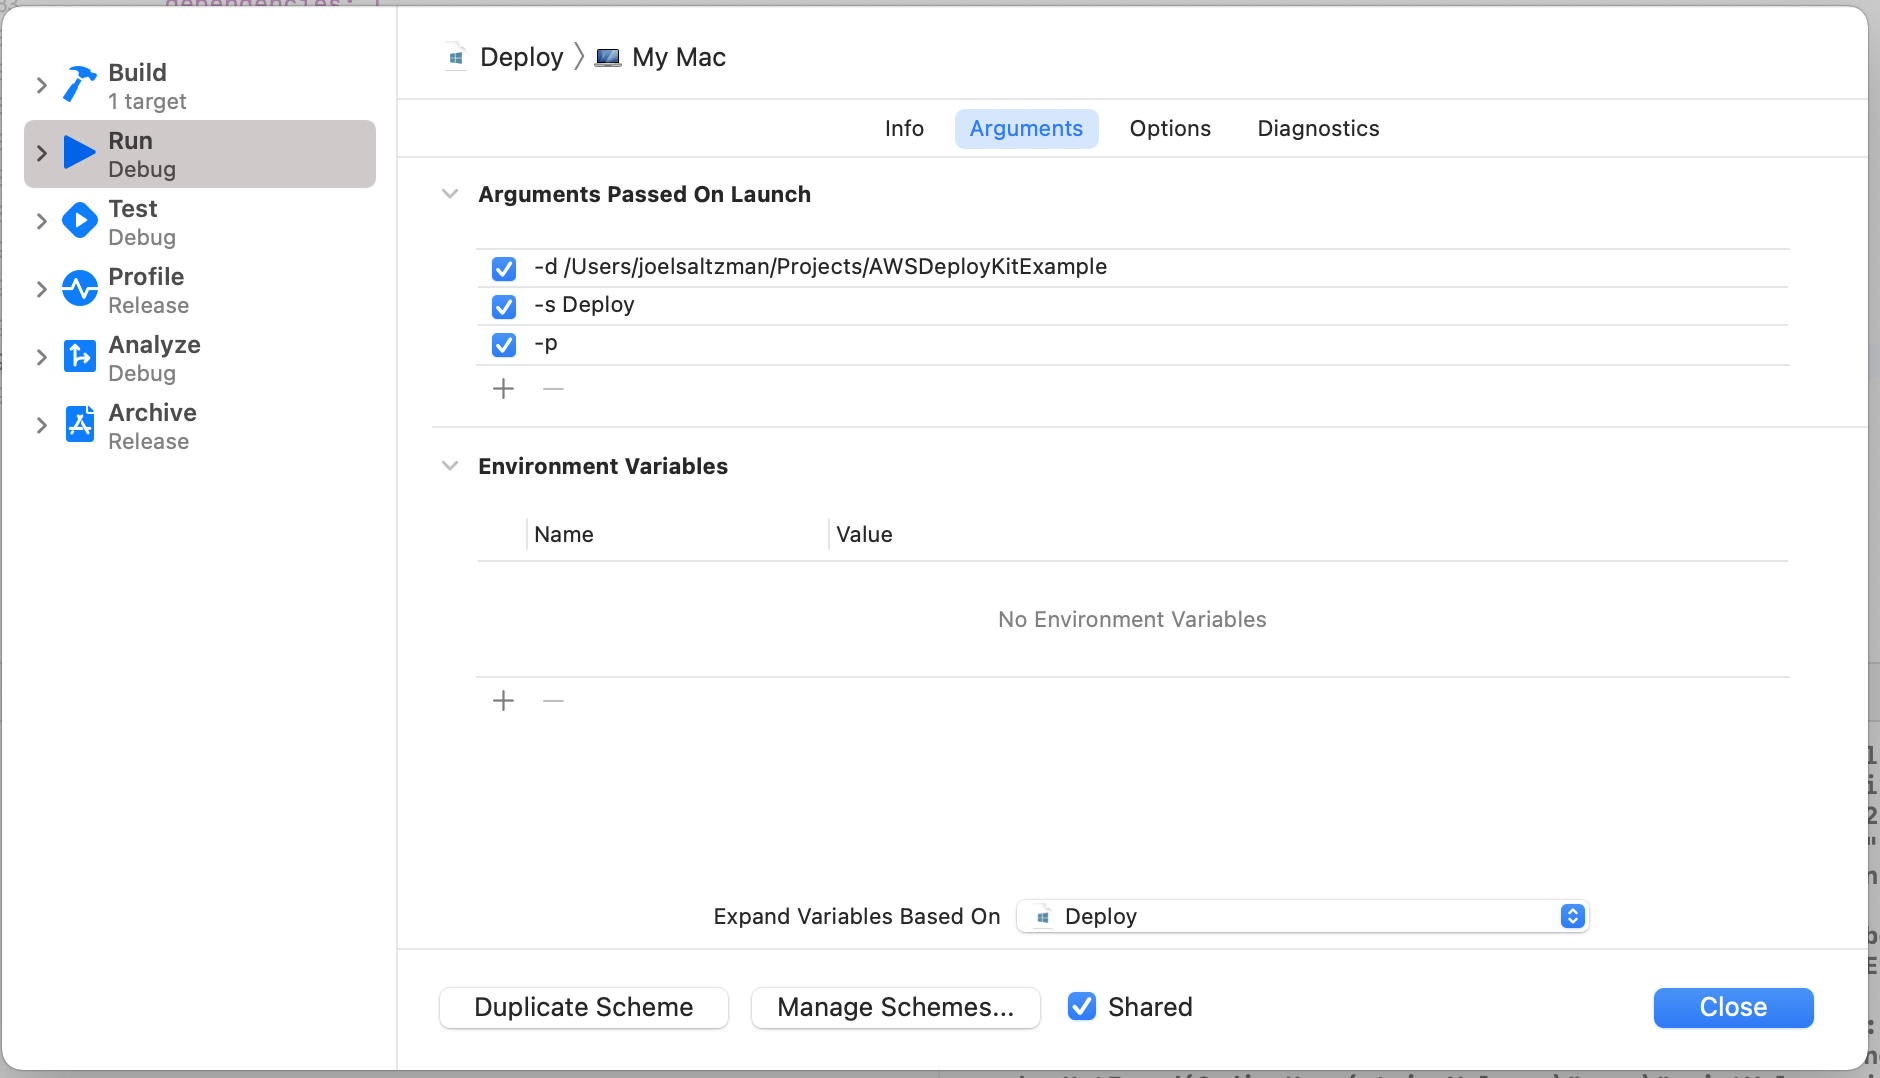
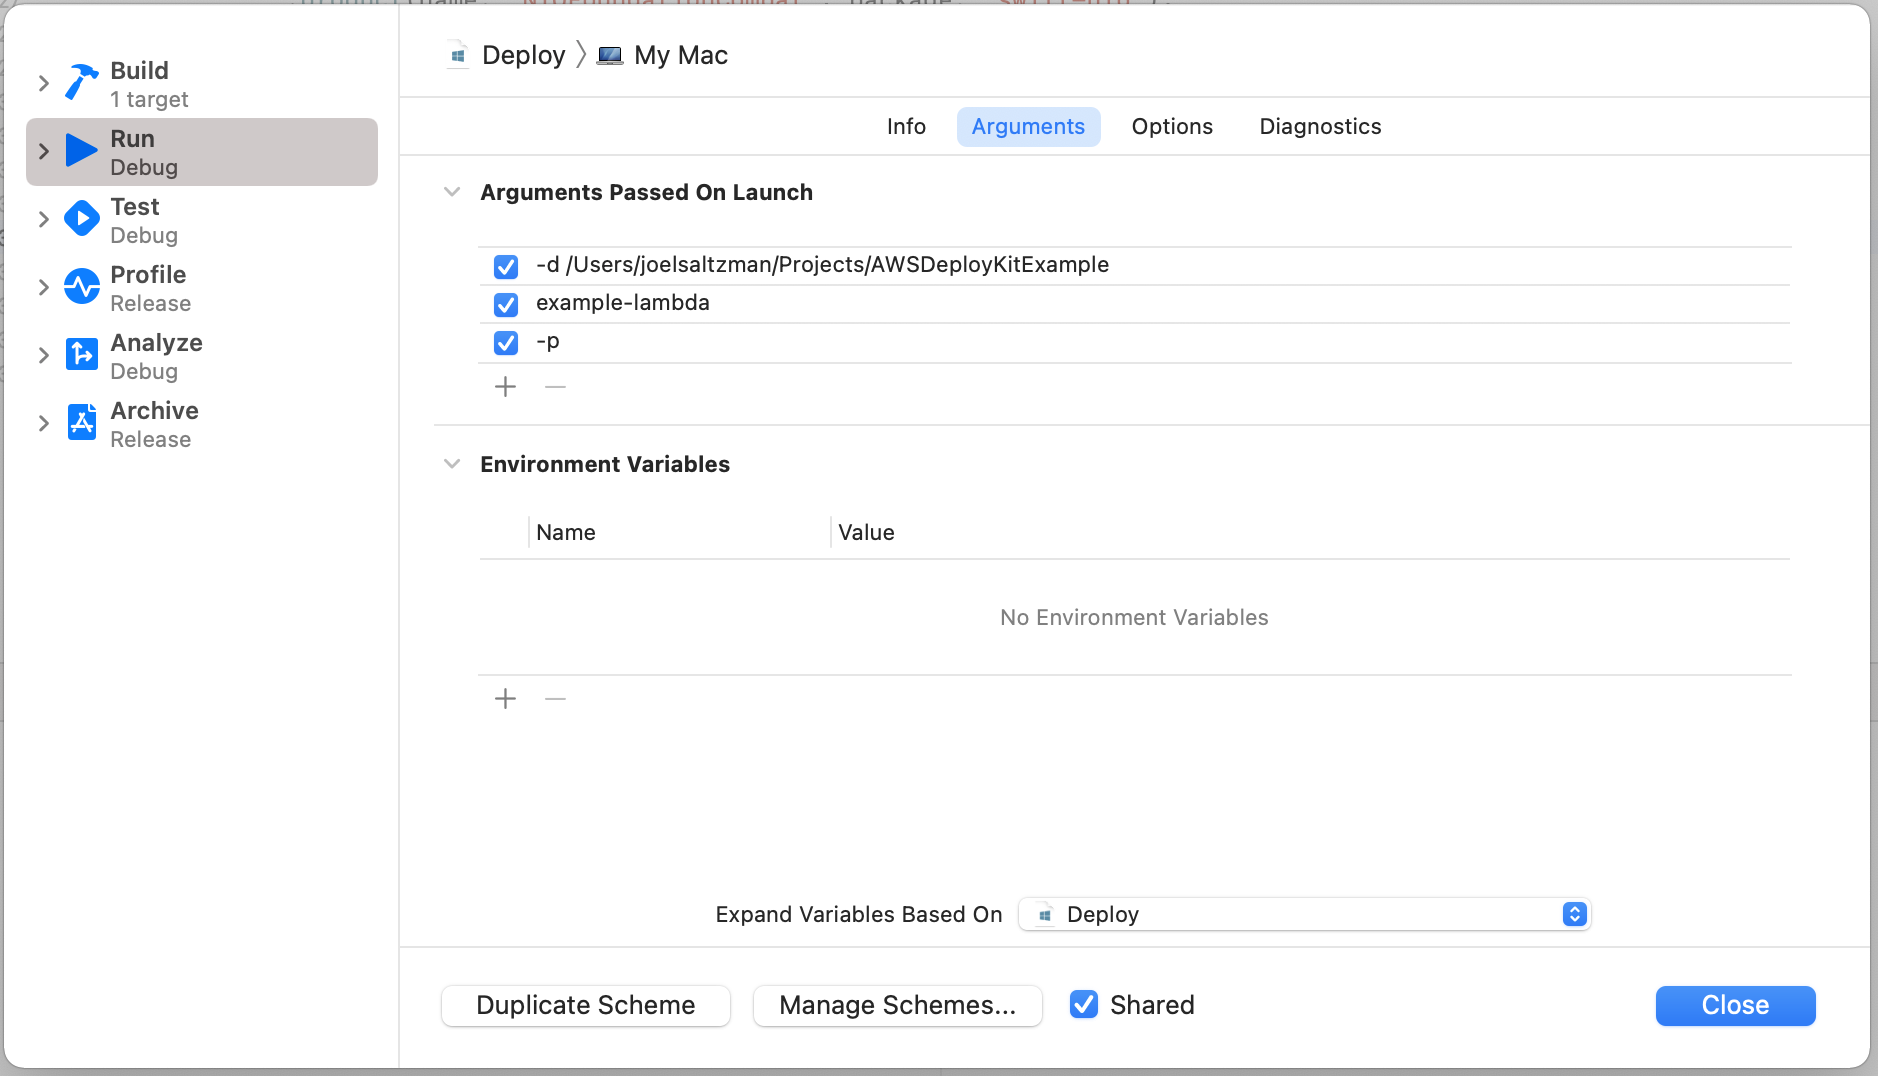
Working on readme

diff --git a/Package.swift b/Package.swift
@@ -5,6 +5,9 @@ import PackageDescription
 
 let package = Package(
     name: "DeployExample",
+    platforms: [
+        .macOS(.v10_12)
+    ],
     products: [
         .executable(
             name: "example-lambda",
@@ -13,25 +16,18 @@ let package = Package(
     ],
     dependencies: [
         .package(url: "https://github.com/swift-server/swift-aws-lambda-runtime.git", .branch("main")),
-        .package(url: "https://github.com/apple/swift-nio", .branch("main")),
-        .package(url: "https://github.com/apple/swift-log", .branch("main")),
-        .package(url: "https://github.com/saltzmanjoelh/AWSDeployKit", .branch("main")),
+        .package(url: "https://github.com/saltzmanjoelh/aws-deploy-kit", .branch("main")),
     ],
     targets: [
         .target(
             name: "example-lambda",
             dependencies: [
                 .product(name: "AWSLambdaRuntime", package: "swift-aws-lambda-runtime"),
-                .product(name: "NIO", package: "swift-nio"),
-                .product(name: "NIOHTTP1", package: "swift-nio"),
-                .product(name: "NIOFoundationCompat", package: "swift-nio"),
-                .product(name: "NIOConcurrencyHelpers", package: "swift-nio"),
-                .product(name: "Logging", package: "swift-log"),
             ]),
         .target(
             name: "Deploy",
             dependencies: [
-                .product(name: "AWSDeployCore", package: "AWSDeployKit"),
+                .product(name: "AWSDeployCore", package: "aws-deploy-kit"),
             ]),
     ]
 )

diff --git a/README.md b/README.md
@@ -1,10 +1,13 @@
 # AWSDeployKitExample
 
-An example of how to use [AWSDeployKit](https://github.com/saltzmanjoelh/AWSDeployKit) within an Xcode project.
+An example of how to use [aws-deploy-kit](https://github.com/saltzmanjoelh/aws-deploy-kit) within an Xcode project.
 
 ## TLDR
 
-Take a look at the `Deploy` target and the "Arguments Passed on Launch" in the scheme by pressing cmd + shift + < and selecting the the `Deploy` target. 
+Take a look at the `Deploy` target. The target will need some launch arguments. Edit the scheme by pressing cmd + shift + < and selecting the the `Deploy` target. Switch to the "Arguments" tab, then set the "Arguments Passed on Launch" as `-d /path/to/AWSDeployKitExample example-lambda -p`.
+
+![Launch Arguments ]LaunchArguments.png)
+
 ## Setup
 Here are the detailed steps to setup a project like this.
 
@@ -12,25 +15,32 @@ Here are the detailed steps to setup a project like this.
 
 Create a new directory called `example-lambda`.
 `cd` into it.
-Create a new Swift package.
+Create a new executable Swift package by specifying `--type executable`.
 Add a directory for the `Deploy` source code and create it's `main.swift` file.
 Open the project.
 
 ```shell
-mkdir example-lambda
-cd example-lambda
-swift package init --type executable
-mkdir Sources/Deploy
-touch Sources/Deploy/main.swift
+mkdir example-lambda && \
+cd example-lambda && \
+swift package init --type executable && \
+mkdir Sources/Deploy && \
+touch Sources/Deploy/main.swift && \
 open Package.swift
+```
+
+The minimum platform must be specified in the package manifest. Add this to it:
+
+```swift
+platforms: [
+    .macOS(.v10_12)
+],
 ```
 
 ### Lambda Target
 
-At the top of the Package.swift manifest, create the executable product that will be used for the Lambda function. We are calling it `example-lambda`. The products section was not created for us, do that now.
+At the top of the Package.swift manifest, create the executable product that will be used for the Lambda function. We are calling it `example-lambda`. The products section was not created for us, do that now.  
 
 ```swift
-
 products: [
     .executable(
         name: "example-lambda",
@@ -44,8 +54,6 @@ Add the Swift AWS Lambda related dependencies
 ```swift
 dependencies: [
     .package(url: "https://github.com/swift-server/swift-aws-lambda-runtime.git", .branch("main")),
-    .package(url: "https://github.com/apple/swift-nio", .branch("main")),
-    .package(url: "https://github.com/apple/swift-log", .branch("main")),
 ],
 ```
 
@@ -57,11 +65,6 @@ targets: [
         name: "example-lambda",
         dependencies: [
             .product(name: "AWSLambdaRuntime", package: "swift-aws-lambda-runtime"),
-            .product(name: "NIO", package: "swift-nio"),
-            .product(name: "NIOHTTP1", package: "swift-nio"),
-            .product(name: "NIOFoundationCompat", package: "swift-nio"),
-            .product(name: "NIOConcurrencyHelpers", package: "swift-nio"),
-            .product(name: "Logging", package: "swift-log"),
         ]),
 ]
 ```
@@ -74,10 +77,8 @@ The `Deploy` target is the main point of this example project. Add `AWSDeployKit
 dependencies: [
     // Existing
     .package(url: "https://github.com/swift-server/swift-aws-lambda-runtime.git", .branch("main")),
-    .package(url: "https://github.com/apple/swift-nio", .branch("main")),
-    .package(url: "https://github.com/apple/swift-log", .branch("main")),
     // Add this one
-    .package(url: "https://github.com/saltzmanjoelh/AWSDeployKit", .branch("main")),
+    .package(url: "https://github.com/saltzmanjoelh/aws-deploy-kit", .branch("main")),
 ],
 ```
 
@@ -90,17 +91,12 @@ targets: [
         name: "example-lambda",
         dependencies: [
             .product(name: "AWSLambdaRuntime", package: "swift-aws-lambda-runtime"),
-            .product(name: "NIO", package: "swift-nio"),
-            .product(name: "NIOHTTP1", package: "swift-nio"),
-            .product(name: "NIOFoundationCompat", package: "swift-nio"),
-            .product(name: "NIOConcurrencyHelpers", package: "swift-nio"),
-            .product(name: "Logging", package: "swift-log"),
         ]),
     // Add this one
     .target(
         name: "Deploy",
         dependencies: [
-            .product(name: "AWSDeployCore", package: "AWSDeployKit"),
+            .product(name: "AWSDeployCore", package: "aws-deploy-kit"),
         ]),
 ]
 ```
@@ -109,17 +105,15 @@ Your package manifest is done. It should look like the [Package.swift](Package.s
 
 ### Launch Arguments
 
-Set your selected target to `Deploy`. Press cmd + shift + < to edit the schem and switch to the Arguments tab. The minimum arguments you should specify are in this case should be `-d /path/to/project` and `-s Deploy`. The `-d` flag tells the `Deploy` app where to find the project to bulid. The `-s` flag tells the `Deploy` app to skip building the Deploy target. We don't need it to build itself. In this example, we are providing a `-p` flag to publish the built `example-lambda`.
+Set your selected target to `Deploy`. Press cmd + shift + < to edit the scheme and switch to the Arguments tab. The minimum arguments you should specify are in this case should be `-d /path/to/project`. The `-d` flag tells the `Deploy` app where to find the Swift package. However, by only providing the package directory, it will simply build all of the targets in Docker. You can list a specific target to build `example-lambda` and  `-p` for it to be published.
+
+You can take a look at the full list help by running `aws-deploy --help`. It's also listed [in the repo](https://github.com/saltzmanjoelh/aws-deploy-kit/blob/main/README.md).
 
 [LaunchArguments](LaunchArguments.png)
 
-## AWS Lambda Setup
 
-Currently, `AWSDeployKit` only supports updating the Lambda. You should log into your AWS account and create a new Lambda called `example-lambda`. For the runtime, you should set it as "Provide your own bootstrap on Amazon Linux 2". 
 
-[LambdaSetup](LambdaSetup.png)
-
-## example-lambda Setup
+## example-lambda Source Code
 
 Let's add some minimal code to our Lamdba function. Replace the entire contents of `Sources/example-lambda/main.swift` with this:
 
@@ -141,7 +135,7 @@ Let's add some minimal code to our Lamdba function. Replace the entire contents 
 
  ## Deploy Source Code
  
- It doesn't take much to make the `Deploy` code. The `Sources/Deploy/main.swift` file should be empyt. Simply paste this in there:
+ It doesn't take much to make the `Deploy` source code. The `Sources/Deploy/main.swift` file should be empty. Simply paste this in there:
 
  ```swift
 import Foundation
@@ -153,7 +147,7 @@ AppDeployer.main()
 
 ## Build and Deploy
 
-With the `Deploy` target selected, run it! You should see the Xcode console start building and deploying. 
+With the `Deploy` target selected, run it! You should see the Xcode console start building and deploying. On the first run, the Lambda will be created along with a role that uses the AWSLambdaBasicExecutionRole, and a `development` alias. Future deployments will update the `example-lambda` code and point the `development` alias to the latest version.
 
 
 ## Test
